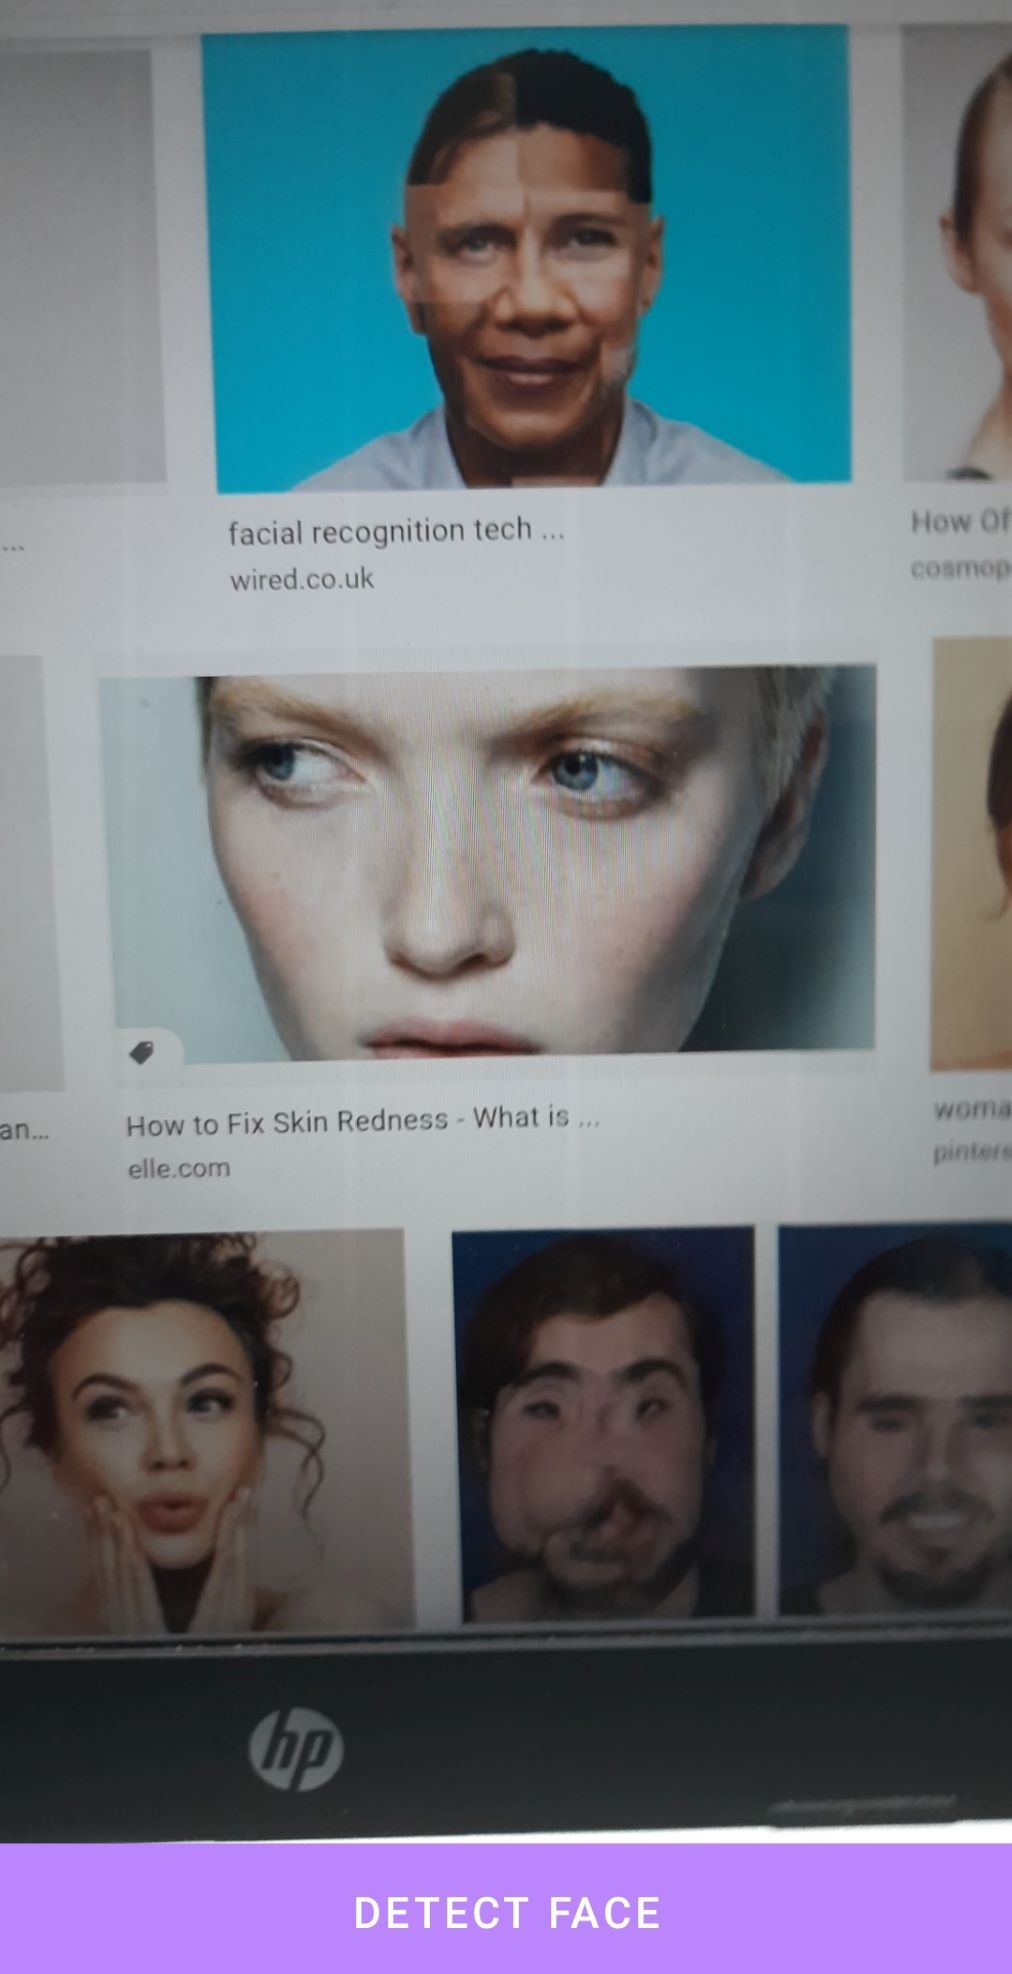
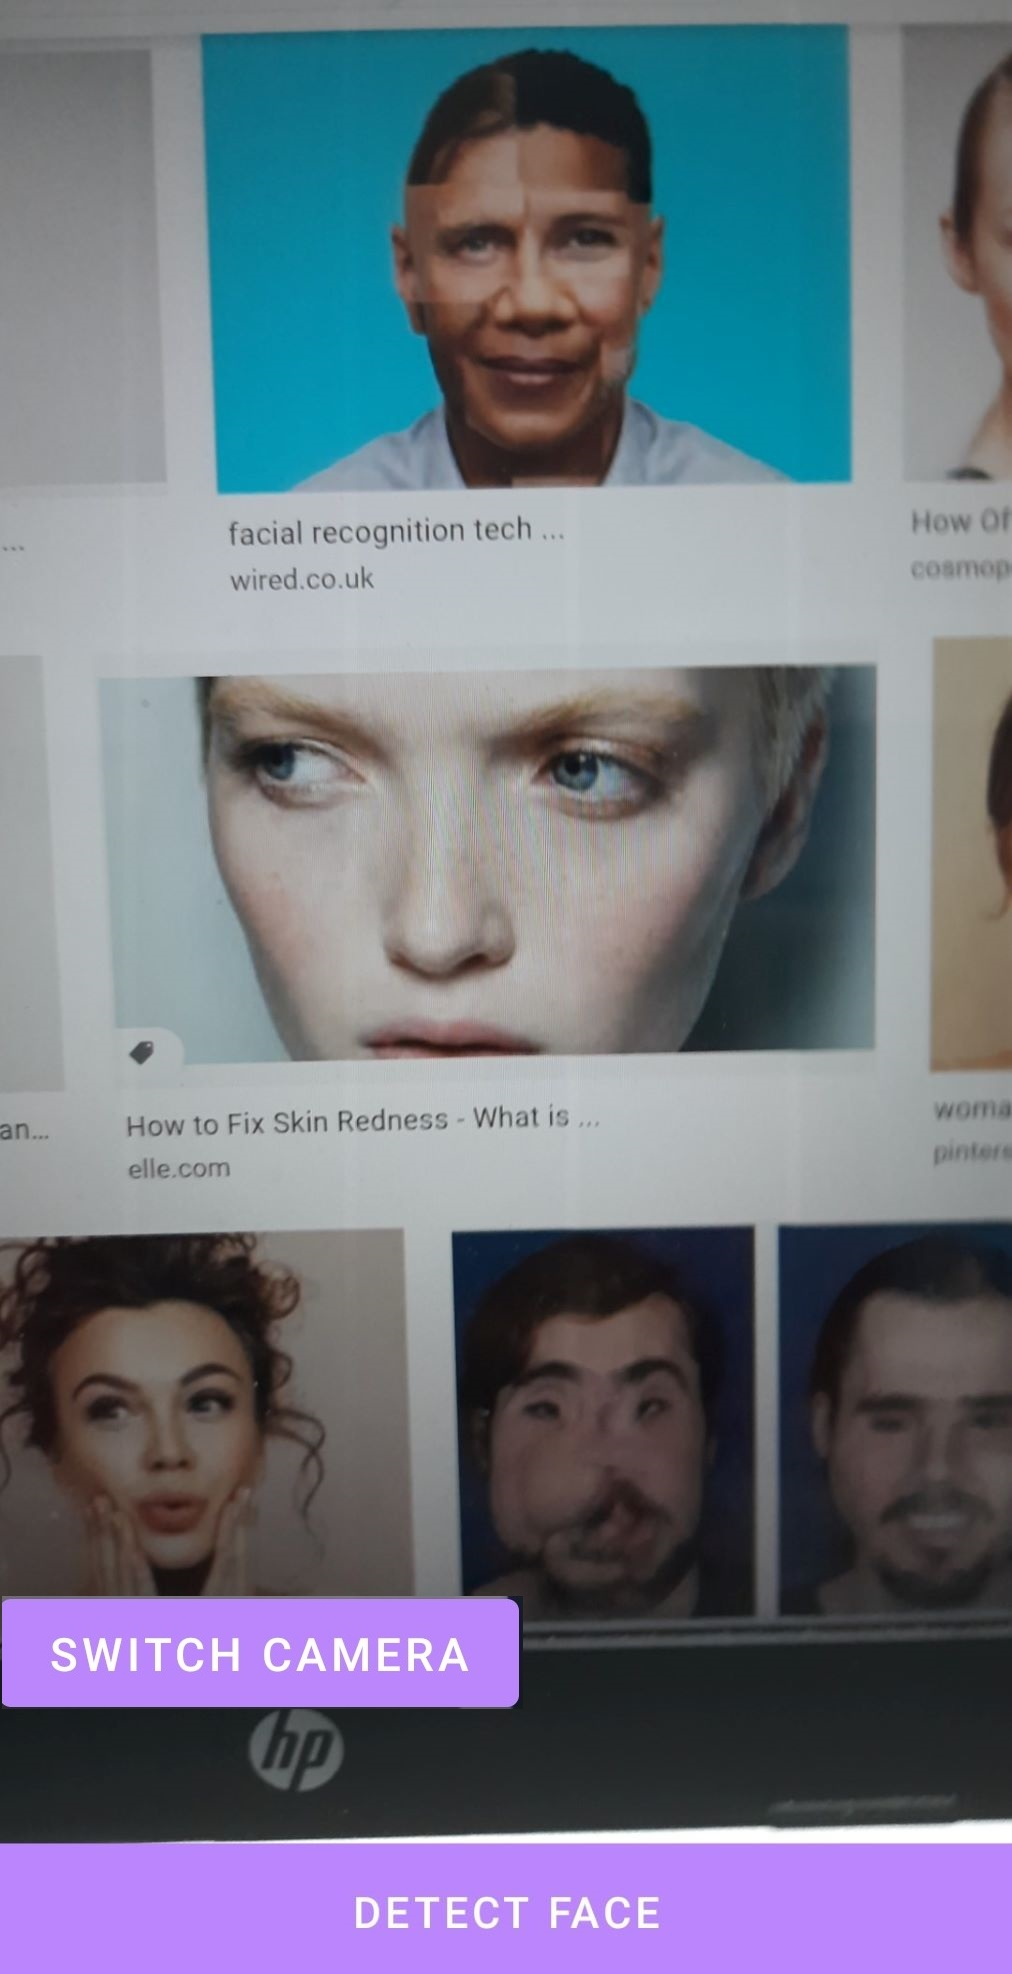
Added exit warning, switch camera button, face stastics (incomplete)

Changed region(s): [[0.0, 0.8034, 0.5208, 0.8652]]

diff --git a/app/src/main/java/com/example/facialdetectionapp/MainActivity.java b/app/src/main/java/com/example/facialdetectionapp/MainActivity.java
@@ -4,11 +4,11 @@ import androidx.annotation.NonNull;
 import androidx.appcompat.app.AppCompatActivity;
 
 import android.app.AlertDialog;
+import android.content.DialogInterface;
 import android.graphics.Bitmap;
 import android.graphics.Rect;
 import android.os.Bundle;
 import android.view.View;
-import android.webkit.WebView;
 import android.widget.Button;
 import android.widget.Toast;
 
@@ -32,11 +32,10 @@ import java.util.List;
 
 import dmax.dialog.SpotsDialog;
 
-import static dmax.dialog.SpotsDialog.*;
-
 public class MainActivity extends AppCompatActivity {
 
-    private Button faceDetectButton,retakeButton;
+    // initialising the button, graphic overlay, alert dialog and camera view variables
+    private Button faceDetectButton,retakeButton,switchButton;
     private GraphicOverlay graphicOverlay, graphicOverlayRetake;
     private CameraView cameraView;
     AlertDialog alertDialog;
@@ -46,34 +45,51 @@ public class MainActivity extends AppCompatActivity {
         super.onCreate(savedInstanceState);
         setContentView(R.layout.activity_main);
 
+        // assigning values to all the variables
         faceDetectButton = findViewById(R.id.detect_face_button);
         retakeButton = findViewById (R.id.retake_button);
+        switchButton = findViewById(R.id.switch_camera);
         graphicOverlay = findViewById(R.id.graphic_overlay);
         graphicOverlayRetake = findViewById((R.id.graphic_overlay_retake));
         cameraView = findViewById(R.id.camera_view);
 
+
+
+        //initializing alert dialog to display after clicking detect face button
         alertDialog = new SpotsDialog.Builder()
                 .setContext(this)
-                .setMessage("Please Wait, Loading...")
+                .setMessage("Please Wait. Loading...")
                 .setCancelable(false)
                 .build();
 
+        // adding functionality to the face detect button
         faceDetectButton.setOnClickListener(new View.OnClickListener() {
             @Override
             public void onClick(View v) {
-                cameraView.start();
-                cameraView.captureImage();
-                graphicOverlay.clear();
+                cameraView.start();                // starts the cameraView
+                cameraView.captureImage();         // captures the image
+                graphicOverlay.clear();            // clears the graphic overlay
 
             }
         });
 
+        // adding functionality to the switch button
+        switchButton.setOnClickListener(new View.OnClickListener() {
+            @Override
+            public void onClick(View v) {
+                cameraView.toggleFacing();      // toggles camera
+            }
+        });
+
+        // adding functionality to the retake button
         retakeButton.setOnClickListener(new View.OnClickListener() {
             @Override
             public void onClick(View v) {
                 graphicOverlayRetake.clear();
                 retakeButton.setVisibility(View.INVISIBLE);
+
                 faceDetectButton.setVisibility(View.VISIBLE);
+                switchButton.setVisibility(View.VISIBLE);
             }
         });
 
@@ -82,12 +98,13 @@ public class MainActivity extends AppCompatActivity {
             public void onEvent(CameraKitEvent cameraKitEvent) {
 
             }
-
+            // If error occurs, the block of code is executed here
             @Override
             public void onError(CameraKitError cameraKitError) {
 
             }
 
+            // While taking the image, the block of code is executed here
             @Override
             public void onImage(CameraKitImage cameraKitImage) {
                 alertDialog.show();
@@ -98,10 +115,10 @@ public class MainActivity extends AppCompatActivity {
                 processFacedetection(bitmap);
 
                 faceDetectButton.setVisibility (View.INVISIBLE);
-                retakeButton.setVisibility (View.VISIBLE);
-
+                switchButton.setVisibility(View.VISIBLE);
             }
 
+            // If onVideo mode, the block of code is executed here
             @Override
             public void onVideo(CameraKitVideo cameraKitVideo) {
 
@@ -133,17 +150,35 @@ public class MainActivity extends AppCompatActivity {
         });
     }
 
+    // call firebaseVisionFaces to detect faces
     private void getFaceResults(List<FirebaseVisionFace> firebaseVisionFaces) {
+        switchButton.setVisibility(View.INVISIBLE);
         int counter = 0;
         for (FirebaseVisionFace face: firebaseVisionFaces) {
             Rect rect = face.getBoundingBox();
             RectOverlay rectOverlay = new RectOverlay(graphicOverlayRetake, rect);
 
+            // Add the rectangular outline over the face
             graphicOverlayRetake.add(rectOverlay);
             counter = counter + 1;
         }
-        Toast.makeText(MainActivity.this, counter+" faces found",Toast.LENGTH_SHORT).show();
+
+        retakeButton.setVisibility (View.VISIBLE);
+
+        if (counter == 0) {
+            // display toast message if no faces are found
+            Toast.makeText(MainActivity.this, "No faces found",Toast.LENGTH_SHORT).show();
+        } else if (counter == 1) {
+            // display toast message if 1 face are found
+            Toast.makeText(MainActivity.this, "1 face found",Toast.LENGTH_SHORT).show();
+        } else {
+            // display toast message if more than 1 face is found
+            Toast.makeText(MainActivity.this, counter +" faces found",Toast.LENGTH_SHORT).show();
+        }
+
         alertDialog.dismiss();
+
+        runFaceRecog(firebaseVisionFaces);
     }
 
     @Override
@@ -159,4 +194,78 @@ public class MainActivity extends AppCompatActivity {
 
         cameraView.start();
     }
+    @Override
+    public void onBackPressed() {
+        AlertDialog.Builder builder = new AlertDialog.Builder(this);
+        builder.setCancelable(false);
+        builder.setMessage("Do you want to exit ?");
+        builder.setPositiveButton("Yes", new DialogInterface.OnClickListener() {
+            @Override
+            public void onClick(DialogInterface dialog, int which) {
+                //if user pressed "yes", then he is allowed to exit from application
+                finish();
+            }
+        });
+        builder.setNegativeButton("No",new DialogInterface.OnClickListener() {
+            @Override
+            public void onClick(DialogInterface dialog, int which) {
+                //if user select "No", just cancel this dialog and continue with app
+                dialog.cancel();
+            }
+        });
+        AlertDialog alert = builder.create();
+        alert.show();
+    }
+
+    private void runFaceRecog(List<FirebaseVisionFace> faces) {
+        StringBuilder result = new StringBuilder();
+        float smilingProbability = 0;
+        float rightEyeOpenProbability = 0;
+        float leftEyeOpenProbability = 0;
+
+        for (FirebaseVisionFace face : faces) {
+            if (face.getSmilingProbability() != FirebaseVisionFace.UNCOMPUTED_PROBABILITY) {
+                smilingProbability = face.getSmilingProbability();
+            }
+            if (face.getRightEyeOpenProbability() != FirebaseVisionFace.UNCOMPUTED_PROBABILITY) {
+                rightEyeOpenProbability = face.getRightEyeOpenProbability ();
+            }
+            if (face.getLeftEyeOpenProbability() != FirebaseVisionFace.UNCOMPUTED_PROBABILITY) {
+                leftEyeOpenProbability = face.getLeftEyeOpenProbability();
+            }
+
+
+            result.append("Smile: ");
+            if (smilingProbability > 0.5) {
+                result.append("Yes \nProbability: ").append(smilingProbability);
+            } else {
+                result.append("No");
+            }
+            result.append("\n\nRight eye: ");
+            if (rightEyeOpenProbability > 0.5) {
+                result.append("Open \nProbability: ").append(rightEyeOpenProbability);
+            } else {
+                result.append("Close");
+            }
+            result.append("\n\nLeft eye: ");
+            if (leftEyeOpenProbability > 0.5) {
+                result.append("Open \nProbability: ").append(leftEyeOpenProbability);
+            } else {
+                result.append("Close");
+            }
+            result.append("\n\n");
+        }
+        AlertBox(result);
+
+    }
+
+    private void AlertBox(StringBuilder result) {
+        AlertDialog.Builder probability = new AlertDialog.Builder(this);
+        probability.setCancelable(true);
+        probability.setMessage(result);
+
+        AlertDialog probabilityAlert = probability.create();
+        probabilityAlert.show();
+    }
+
 }
